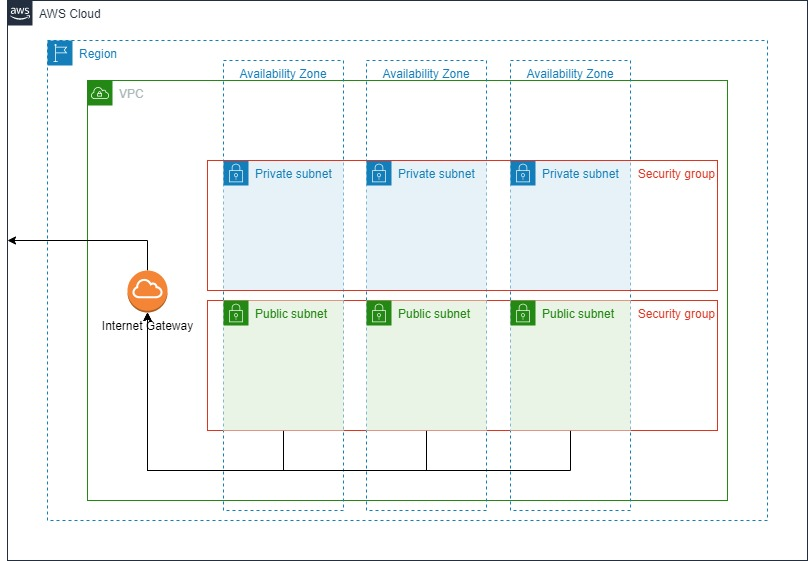
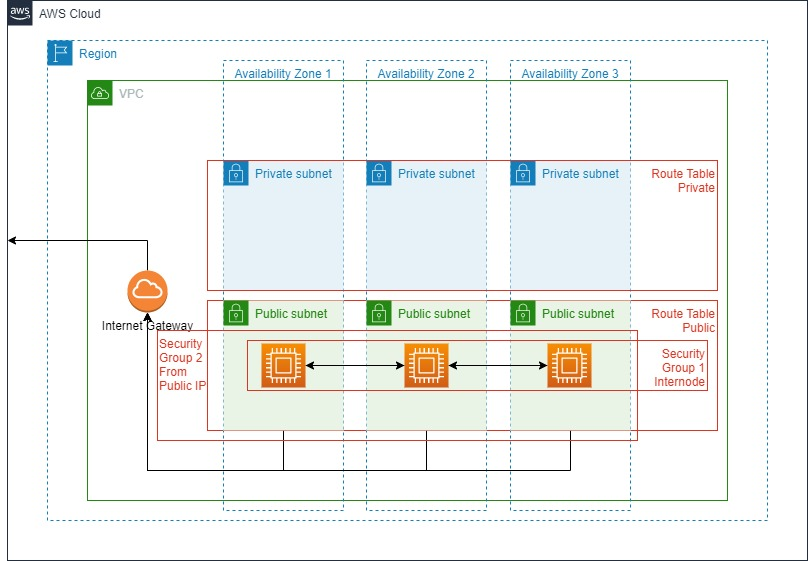
Updated README.dm.  Made small (untested) changes to the CloudFormation template.  Updated the diagram to reflect objects created in the CF Template.

diff --git a/README.md b/README.md
@@ -71,6 +71,26 @@ The following values are exported
 |VPC ID|"${AWS::StackName}-VPCID|The ID of the VPC created by this CloudFormation Template|
 |Security Group 1 ID|"${AWS::StackName}-SecurityGroup1"|The ID of the security group which allows access to public resources from a single IP|
 |Security Group 2 ID|"${AWS::StackName}-SecurityGroup1"|The ID of the security group which allows intra-node communication|
-|Public Subnet 1 ID|"${AWS::StackName}-PublicSubnet1"|A public subnet where EC2 instances will be placed|
-|Public Subnet 2 ID|"${AWS::StackName}-PublicSubnet2"|A public subnet where EC2 instances will be placed|
-|Public Subnet 3 ID|"${AWS::StackName}-PublicSubnet3"|A public subnet where EC2 instances will be placed|
+|JoinValue |Use this output as the "ExistingJoinString" parameter when creating additional regions.  | The CloudFormation Template creates this value when the 1st region is created.  |
+<br><br>
+ # Multi-Region
+To create a multi-region CockroachDB Cluster:
+1.  Use the CloudFormation template to create the database in the first region.  Once the stack is complete, navigate to the "OUTPUTS" section and find the "JoinValue".  You will use this value as a parameter in all subsequent regions.
+2.  Run the CloudFormation template in additional regions.  Be sure to choose non-overlaping VPC CIDRs for each region.  In the "ExistingJoinString" parameter use the "JoinValue" from the "OUTPUTS" section of the 1st Region.  
+3.  Once the stacks are created in each Region, you'll need to create VPC peering between all regions (for 3 regions there will be 3 vpc peering connections, for 4 regions there would be 6 and so on.)
+4.  Edit the routes of public route table for each region adding the VPC CIDRs for all regions.  The Destination is the VPC CIDR routes and the target is the VPC Peering connections.  
+5.  Edit the inbound rules of the security group (instance-security-group02) in each region.   The souce should be the VPC CIDRs.
+6.  Log on to any one of the nodes and run `cockroach init`.  Once that is complete, the cluster should be up and running
+<br><br><br>
+
+|  id |       address       |     sql_address     |  build  |         started_at         |         updated_at         |             locality             | is_available | is_live|
+|-----|---------------------|---------------------|---------|----------------------------|----------------------------|----------------------------------|--------------|----------|
+   1 | 192.168.4.4:26257   | 192.168.4.4:26257   | v21.1.9 | 2021-12-23 20:00:41.289793 | 2021-12-23 20:03:54.843964 | region=us-west-2,zone=us-west-2a | true         | true
+   2 | 192.168.5.132:26257 | 192.168.5.132:26257 | v21.1.9 | 2021-12-23 20:00:42.407873 | 2021-12-23 20:03:55.921262 | region=us-east-1,zone=us-east-1c | true         | true
+   3 | 192.168.5.68:26257  | 192.168.5.68:26257  | v21.1.9 | 2021-12-23 20:00:42.778194 | 2021-12-23 20:03:56.324225 | region=us-east-1,zone=us-east-1b | true         | true
+   4 | 192.168.4.132:26257 | 192.168.4.132:26257 | v21.1.9 | 2021-12-23 20:00:42.928144 | 2021-12-23 20:03:56.477613 | region=us-west-2,zone=us-west-2c | true         | true
+   5 | 192.168.4.68:26257  | 192.168.4.68:26257  | v21.1.9 | 2021-12-23 20:00:43.165414 | 2021-12-23 20:03:56.710054 | region=us-west-2,zone=us-west-2b | true         | true
+   6 | 192.168.5.4:26257   | 192.168.5.4:26257   | v21.1.9 | 2021-12-23 20:00:43.607428 | 2021-12-23 20:03:57.129251 | region=us-east-1,zone=us-east-1a | true         | true
+   7 | 192.168.6.68:26257  | 192.168.6.68:26257  | v21.1.9 | 2021-12-23 20:03:47.825816 | 2021-12-23 20:03:56.842498 | region=us-east-2,zone=us-east-2b | true         | true
+   8 | 192.168.6.4:26257   | 192.168.6.4:26257   | v21.1.9 | 2021-12-23 20:03:48.597583 | 2021-12-23 20:03:57.61296  | region=us-east-2,zone=us-east-2a | true         | true
+   9 | 192.168.6.132:26257 | 192.168.6.132:26257 | v21.1.9 | 2021-12-23 20:03:49.241007 | 2021-12-23 20:03:53.755784 | region=us-east-2,zone=us-east-2c | true         | true
